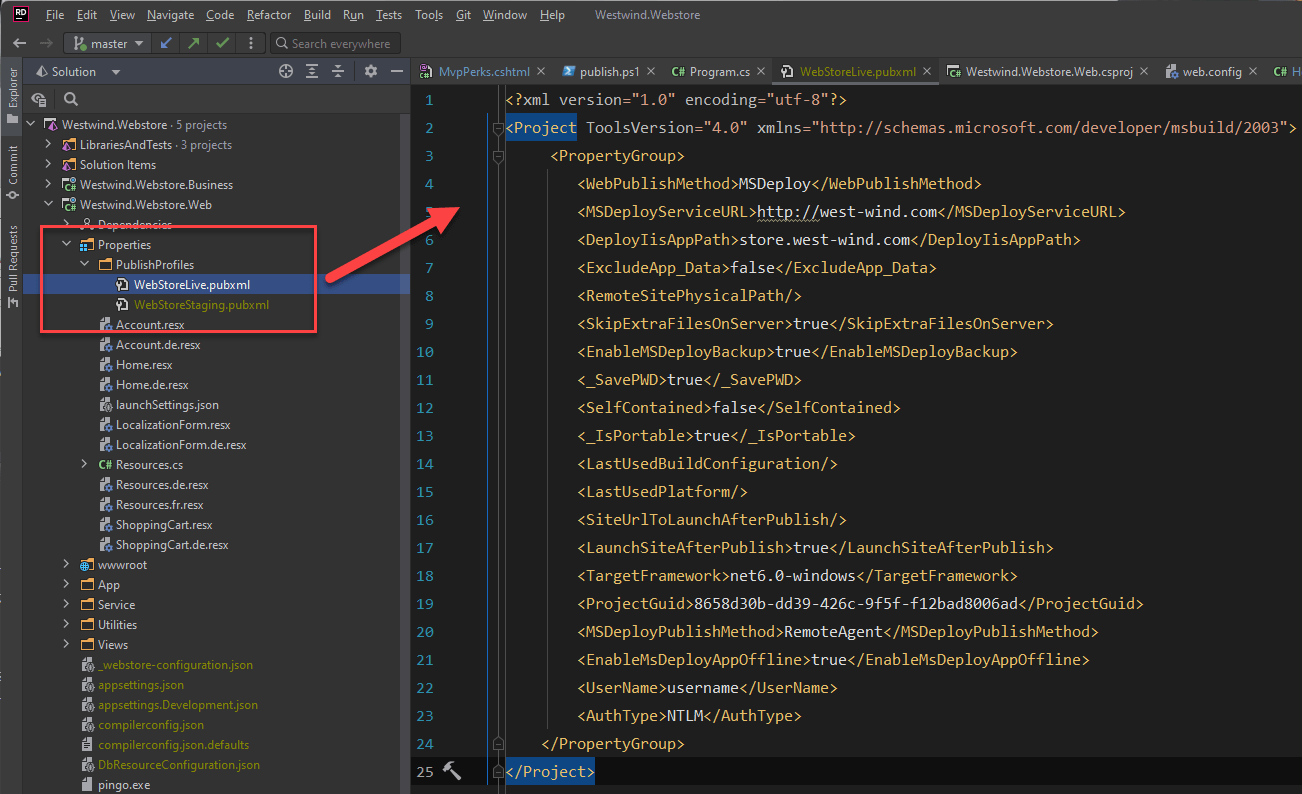
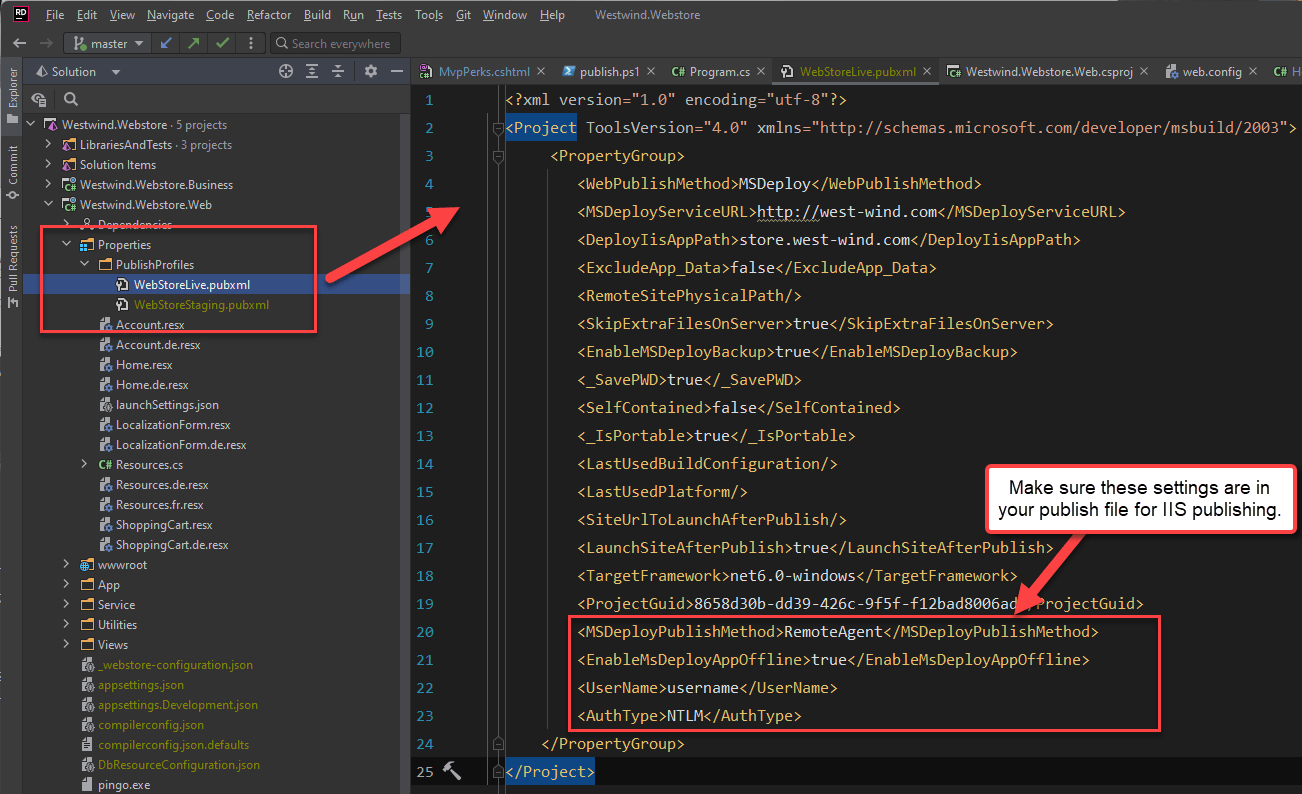
Update UseShadowcopydirectoryOnIisWithAspNetToAvoidWebdeployLockingIssues.md

Changed region(s): [[0.4301, 0.5743, 1.0, 0.7859], [0.4301, 0.9068, 0.8909, 0.937]]

diff --git a/2022-10/Use-ShadowCopyDirectory-on-IIS-with-ASP.NET-To-Avoid-WebDeploy-Locking-Issues/UseShadowcopydirectoryOnIisWithAspNetToAvoidWebdeployLockingIssues.md b/2022-10/Use-ShadowCopyDirectory-on-IIS-with-ASP.NET-To-Avoid-WebDeploy-Locking-Issues/UseShadowcopydirectoryOnIisWithAspNetToAvoidWebdeployLockingIssues.md
@@ -1,123 +1,277 @@
 ---
-title: Use ShadowCopyDirectory on IIS with ASP.NET To Avoid WebDeploy Locking Issues
-abstract: 
-keywords: 
-categories: 
+title: Avoid WebDeploy Locking Errors to IIS with Shadow Copy for ASP.NET Core Apps
+abstract: If you're self-hosting ASP.NET Core applications on IIS and using WebDeploy to publish to the server, you've very likely run into the dreaded locked file problem on the server. In this post I show you how you can work around locking problems with the base WebDeploy configuration and by using a new experimental feature in ASP.NET 6.0 to Shadow Copy deploy binaries. As a bonus this post also describes setting up and using Web Deploy in some detail.
+categories: ASP.NET, Deployment
+keywords: WebDeploy, Shadow Copy, Locking, IIS, Publish
 weblogName: West Wind Web Log
-postId: 
-postDate: 2022-10-09T11:11:36.1551532-10:00
-postStatus: publish
+postId: 3558288
 dontInferFeaturedImage: false
 dontStripH1Header: false
+postStatus: publish
+featuredImageUrl: https://weblog.west-wind.com/images/2022/Use-ShadowCopyDirectory-on-IIS-with-ASP.NET-To-Avoid-WebDeploy-Locking-Issues/DeployBoat.jpg
+permalink: https://weblog.west-wind.com/posts/2022/Nov/07/Avoid-WebDeploy-Locking-Errors-to-IIS-with-Shadow-Copy-for-ASPNET-Core-Apps
+postDate: 2022-11-07T11:11:36.1551532-10:00
 ---
 # Avoid WebDeploy Locking Errors to IIS with Shadow Copy for ASP.NET Core Apps
 
+![Rocky Deployment - boat sliding off launch ramp](DeployBoat.jpg)
+
 If you're self-hosting ASP.NET Core applications on IIS and using WebDeploy to publish to the server, you've very likely run into the dreaded locked file problem on the server. You start to publish to the server, and the publish fails half way through, with an File in Use error because files on the server are locked. 
 
-Regardless of whether you publish from within Visual Studio or you publish from the command line (via `dotnet publish`) you have probably run into this issue:
+Regardless of whether you publish from within Visual Studio or you publish from the command line (via `dotnet publish` or `MSDeploy`) you have probably run into this issue:
 
-![](PublishFail.png)
+![MSDeploy publish error on the Command Line](PublishFail.png)
 
-The error is the `ERROR_FILE_IN_USE` which indicates that one of the files - most likely one of the application assemblies is use. Sometimes it's possible to retry and succeed, but at other times this update never succeeds.
+The error is the dreaded `ERROR_FILE_IN_USE` which indicates that one of the files - most likely one of the application assemblies is use.
+
+This means when applications are shut down for updates from WebDeploy, sometimes it's possible to retry and succeed, but at other times this update never succeeds. This happens even, if the `AppOffLine.html` option is enabled in the profile, which is supposed to unload the app before it starts updating. Alas - it does not, at least not always.
+
+I'll break this post down into two major sections:
+
+* Part 1: Shadow Copying - What is it, what problem does it solve, and how do you use it
+* Part 2: Setting up WebDeploy for Publishing to IIS both on the client and server
+
+The latter is obviously out of order, but if you're new to IIS Publishing and WebDeploy or it's been a while, it might be good to get a quick start or refresher to get up to speed.
 
 ## Why are Files Locked Files in ASP.NET Core Applications?
-Unlike classic ASP.NET applications, by default ASP.NET Core applications are hosted **in place** when running in IIS, which means that the applications are run out of the location that they are installed. 
+Unlike classic ASP.NET applications, by default ASP.NET Core applications are hosted and execute **in place** when running in IIS or anywhere else. This means that the application **runs directly in the location that it is deployed** and loads all files out of that folder. 
 
-Contrast that to classic ASP.NET used shadow copying, where binary files of an application were by default copied to another temporary folder from which the application was then run. ASP.NET then ran a file watcher to determine if files in the binary folder had changed and if so would create a new shadow copy folder, copy the files and then start a new Application Pool from there. Old requests would run out on the old Application Pool, new requests would start up in the new one.
+On IIS, ASP.NET Core is hosted through the **ASP.NET Core Hosting Module (ANCM)** which is responsible for firing up the .NET Runtime - either in-process or out-of-process - and starting up your .NET core application. The module handles translating IIS's inbound data stream so ASP.NET Core can consume the data using the familiar ASP.NET Request/Response/Server model.
 
-ASP.NET Core by default doesn't do this sort of shadow copying, and instead runs binaries right out of the installation folder which is the 'Web' site install folder.
+WebDeploy is the tooling technology you can use to publish ASP.NET Core applications to a self-hosted instance of IIS. It copies files, is supposed to unload the running application (with mixed results), updates files and then is supposed to restart the application. 
 
-IIS has a special mechanism to try and unload a running application by copying a special file called  `AppOffline.html` into the root of a Web site, which is supposed to shut down the running application and instead serve the static `AppOffline.html` which can display a message to users that the site is temporarily down. Unfortunately this mechanism is not very reliable - while it can shut down applications in many cases, often it fails to do so if there are request still running in the background or the application has other background tasks. Even for simple applications, in my experience `AppOffline.html` on its own is not reliable to shut down an application at least not in the timely manner required in order for Web deploy to work.
+Although WebDeploy has a basic mechanism of unloading the running Application on IIS before copying files using `AppOffline.html`, often this simple IIS unload mechanism fails, and files continue to be locked. Usually this is due to the application still running pending requests or running some background operations that have not completed and released their background threads. End result: In some cases the IIS application does not unload.
 
-Web Deploy has an option to enable this functionality (not enabled by default which is a head scratcher) in the Publish Profile file:
+Sometimes you can wait a little bit and try again, but if the application is super busy or has long running requests or background services it might be increasingly difficult to update the application without explicitly shutting down the Web application on the server.
 
-```xml
- <EnableMsDeployAppOffline>true</EnableMsDeployAppOffline>
-```
+This experience sucks, especially if you need to get a fix out quickly. Even worse in some scenarios this can leave your application in a non-running state as some files were updated and others did not. Unfortunately, **this default behavior  is not uncommon.**
 
-But as discussed **this is not 100% reliable**.
+##AD##  
 
-## Shadow Copying in ASP.NET Core 6.0
-The good news is that as of ASP.NET Core 6.0 Shadow copying is back - for now as an experimental feature. However, after implementing this on my own IIS applications I can safely say that it works and I get now reliable deploys that don't get hung up on file locking errors.
+## Part 1: Shadow Copying
+Thankfully with .NET 6.0 and later an oldie but goodie feature called **Shadow Copying** is coming back. This feature originated in Classic ASP.NET where it was the default deploy scheme, but it is not the default behavior in ASP.NET Core which executes binaries in-place in the original deploy folder.
 
-This feature is enabled via `<handlerSettings>` in `web.config` and looks like this:
+Unlike in-place execution where binaries are run from where they are copied, Shadow Copying copies files into a separate temporary folder in addition to keeping them in the actual deploy folder. Files are published to the deploy folder first and a background operation in IIS then detects that the binaries have changed and copy the files to a secondary, temporary location. Once the copy operation is complete, the application is restarted with binary file loading re-directed to retrieve binaries from the temporary, shadow copy location.
+
+In .NET Core this, this is how this works:
+
+`Environment.CurrentDirectory` continues to reflect your original deploy folder - the application isn't actually running out of the shadow deploy folder. But if you check the currently executing assembly you'll find that it is executing out of a temporary folder.
+
+It looks like the IIS Hosting module is redirecting assembly loading to the temporary folder, so assemblies load from the there, rather than the original deploy folder, while actually running out of the original application folder where the application was installed.
+
+The following shows values for:
+
+* `Environment.CurrentDirectory`  - deploy folder 
+* `Assembly.GetExecutingAssembly().Location` - temporary shadow copy folder
+
+
+![Demonstrating running out of base folder but assemblies loading from Shadow Copy Folder](ApplicationAndShadowDirectoryFolder.png)
+
+### ASP.NET Core doesn't use Shadow Copying by Default
+ASP.NET Core doesn't use Shadow Copying by default and as a result - even with `AppOffLine.html` it's frequent to see publish operations on IIS fail.  
+
+The good news is that as of .NET 6.0 shadow copying is back - albeit as an experimental and optional feature that nevertheless works as advertised.
+
+The shadow copying behavior in ASP.NET Core is provided as part of the ASP.NET Core IIS Hosting Module (ANCM) that manages hosting .NET Core application inside of IIS. This module behavior handles monitoring the Web folder for changes and copying files to a new temporary location, then re-launching the ASP.NET Core application and referencing all binaries **from that temporary folder**.
+
+### Enabling Shadow Copy Folders in .NET 6.0+
+Shadow Copy deployment is a **new, experimental feature in .NET Core 6.0** using experimental keys you set in `web.config`. This feature is implemented at the .NET Core IIS Module level and configured via configuration settings in the `<aspNetCore>` key in `web.config`
+
+Although it's marked 'experimental', after implementing this on several of my own IIS applications, I can safely say that it works without any issues for me and I get now reliable deploys that don't get hung up on file locking errors. This is in contrast to the frequent and somewhat random `ERROR_FILE_IN_USE` errors I was getting previously. I'd say roughly 3 out of 10 installs would fail for me prior to using Shadow Copy. No lock failures any more.
+
+**So yay, Shadow Copy!!!**
+
+### Configuring Shadow Copy in web.config
+Because Shadow Copy is not an application feature, it's not set in your .NET Core project file. Rather it is implemented as part of the ASP.NET Core IIS Hosting Module and therefore configured in `web.config`.
 
 ```xml
 <aspNetCore processPath=".\Westwind.Webstore.Web.exe" 
             hostingModel="inprocess"
             stdoutLogEnabled="false" 
             stdoutLogFile=".\logs\stdout" >
+
  <handlerSettings>
    <handlerSetting name="experimentalEnableShadowCopy" value="true" />
-   <handlerSetting name="shadowCopyDirectory" value="../ShadowCopyDirectory/" />
+   <handlerSetting name="shadowCopyDirectory"       
+                   value="../ShadowCopyDirectory/" />
  </handlerSettings>
+ 
 </aspNetCore>
 ```
 
-This creates a shadow copy folder in this case in the parent folder of the site where several applications can share this common base folder:
+You enable the feature and provide a folder name. The folder name can be a relative path as in the example, or a fully qualified OS path.  You can point multiple applications at the same Shadow Copy folder, as the unique temporary folders are created underneath that folder with a unique ID.
 
-![](ShadowCopyFolder.png)
+Here's what the shadow copy folder looks like for the above setup:
 
-Each application and each 'change' in the application generates a new shadow copy folder. The ASP.NET Core handler figures out whether it needs to create a new shadow copy folder, can reuse an existing one and also cleans up no longer running shadow copy folders.
+![Shadow Copy folders exist in parallel to Deployment folder](ShadowCopyFolder.png)
 
-This works well and has eliminated any publish errors due to file locking from my end. This is a simple fix for an annoying problem and I'm very glad to see Shadow Copying again supported for publishing.
+Each application and each 'change' in the application generates a new shadow copy folder. The ASP.NET Core handler figures out whether it needs to create a new shadow copy folder, can reuse an existing one and also cleans up no longer running shadow copy folders. 
 
-Yay!
+All of this works very well and has eliminated any publish errors for me due to file locking. This is a simple fix for an annoying problem and I'm very glad to see Shadow Copying again supported for publishing.
 
-## Web Deploy Publishing 101: A quick review
-While we're here, let's review the full Web Deploy setup if you're publishing to IIS. The default settings that are set when a new publish profile is created unfortunately don't include some critical options so let's review.
+Again: **Yay!**
 
-The easiest way to create a new publish profile is to let Visual Studio (or another IDE like Rider) create a profile for you.
+### Potential Problems with Shadow Copying
+While Shadow Copying has fixed all of my issues, and I haven't run into any issues personally, it's important to point out that **there can potentially be some issues** that have to do with timing the file copy operation properly and the new location assemblies run out of.
 
-**In Visual Studio:**
-Right click on your Web project, then select **Publish**
+For me personally, switching from in-place, to shadow-copy was a zero change event, all I did is add the handler settings in `web.config` and got to enjoy no lockup publishing and the same application behavior as before.
 
+#### Restart before Copy is Complete
+But I do remember running into issues with partial updates with classic ASP.NET especially on large applications.
+It's feasible that if you have very large publish distributions that multiple shadow copies occur, potentially leaving the application **temporarily** in an unstable state. Once copying is complete, this always sorts itself out, but on rare occasions you may end up with an incomplete application briefly.
 
-![](WebPublishProfileVisualStudio.png)
+I've not seen that in my applications, mainly because the apps are not very large and self contained. The larger the distribution the more likely to run into a situation where Shadow Copy processing considers the app update complete, while more files are still published.
 
-You then choose **Web Deploy** as the publish type and fill in your Web site information:
+#### Relative Assembly Paths
+Another potential problem is that if some component relies on `Assembly.GetExecutingAssembly()` or `Assembly.GetEntryAssembly()` and makes assumptions based on that location, there could be problems due to the relative path changes. This can cause problems with files getting copied to a temporary location instead of into the application structure for example or it could be something internal like a dynamically loaded assembly not being found where it's expected to be.
 
-![](WebDeploySiteInfo.png)
+#### Make sure you Test First, Ask Questions Later
+If you plan on using Shadow Copy make sure you test your application publishing to make sure everything works as expected.
+  
+Don't take my word or my specific application scenarios for it - do your own Due Diligence and test your application to see if there are any of the rare side effects that might apply to you.
 
-You specify the URL of the site that is running 
+## Shadow Copy Summary
+If you've run into publish problems on IIS using plain Web Deploy publishing, you should definitely take a look at Shadow Copying files as it almost certainly will eliminate any locking issues in your applications. However, make sure that you test for any of the minor problems that can creep up due to the changed locations of the binary assemblies loaded from Shadow Copied file.
 
-### A Web Deploy Profile
-The interactive tool simply creates a **Publish Profile** file which by default is stored in your project at:
+##AD##
 
-* Properties/PublishProfiles
+## Part 2: Setting up and Running WebDeploy with .NET Core apps in IIS
+If you're new to publishing to IIS or it's been a while you probably could use a quick refresher on what you need in order to use Web Deploy both on the client and on the server.
 
-You can create multiple profiles to multiple servers, so you can easily set up profiles for `Production`, `Staging` etc. 
+### Make sure that the  WebDeploy is installed
+Although the .NET Core SDK supports publishing via WebDeploy, the feature is not automatically installed with the SDK. **You have to separately install WebDeploy first**.
 
-![](WebDeployProfileInIde.png)
+You can install Web Deploy from:
 
+* [WebDeploy from Microsoft Platform Installer](https://www.iis.net/downloads/microsoft/web-deploy)
+* From Chocolatey: `choco install WebDeploy`
 
+These installers will install both the Web Deploy client and also the server IIS addin, if IIS is installed locally. If IIS is not installed and you later install it you'll have to re-install WebDeploy at that time.
 
-
-
-
-## The Server: Web Deploy Installation
-In order to use WebDeploy to publish to the server, Web Deploy has to be installed on the server as it's not a default IIS component. Web Deploy is an IIS addon-component that works in conjunction with IIS, but it runs as an independent service separate from IIS. 
-
-There are a number of places you can get it from:
-
-* [Download from Microsoft Site](https://www.iis.net/downloads/microsoft/web-deploy)
-* [Install with Chocolatey](https://community.chocolatey.org/packages/webdeploy)
-* Install from the IIS Web Platform Installer (from within the IIS Admin Manager)
-
-Chocolatey is the easiest and quickest as it's a silent install:
-
-```ps
-choco install webdeploy
-```
-
-If all goes well, Web Deploy installs as a service and the service has to be actively running:
+#### A Word about the Web Deploy Agent Service Server Component
+The Web Deploy server component installs as Windows Service called **Web Deployment Agent Service** with a dependency on the Windows Http service which is used for communication.
 
 ![](WebDeployService.png)
 
-That should do the trick.
+You'll want to make sure the service is started and running - otherwise you won't be able to connect to it. 
 
 > #### @icon-warning Make sure the Service is running
-> If for some reason you can't connect to the Web Deploy server, make sure to check that this service is running.
+> If for some reason you can't connect to the Web Deploy server, make sure to double check that the **Web Deployment Agent Service** is actually running!
 >
-> I've noticed in some cases that starting with **Automatic** will fail to start the service properly when the machine starts up, so I recommend using **Automatic (Delayed Start)**. 
+> I've noticed in some cases that starting with default service startup setting of **Automatic** the server fails to start when the machine starts up. Instead using **Automatic (Delayed Start)** is more reliable for ensuring the WebDeploy server is started on machine restarts.
 
+### Create a Web Deploy Profile in Visual Studio
+In order to publish from the client you need to create one or more Publish Profiles that tell WebDeploy where and how to publish your Web application. Publish Profiles are XML files that are used by command line tools to execute, but Visual Studio and other IDEs have UI tools that help create these profiles more interactively.
+
+The easiest way to create a new publish profile from scratch is to let Visual Studio (or Rider) to create a profile for you from your .NET Web application. The following uses a .NET Core project, but it also works with most other Web project types including classic ASP.NET projects. Otherwise you can also just copy an existing `.pubxml` file and modify the configuration.
+
+**In Visual Studio:**
+
+Right click on your Web project, then select **Publish**
+
+![WebDeploy Publish Wizard in Visual Studio](WebPublishProfileVisualStudio.png)
+
+You then choose **Web Deploy** as the publish type and fill in your Web site information:
+
+![Site info display for Web Deploy in Visual Studio](WebDeploySiteInfo.png)
+
+* **Server**  
+You need to specify a domain name here that you want to publish to. You can use either:
+    
+    * A domain or IP Address on its own (ie. `www.domain.com`)
+    * An http url: `http://mydomain.com`
+    * **NOT an https url**: `https://mydomain.com`
+
+    Regardless of whether you use a domain or url the value is parsed into an internally used URL that communicated between Windows machines using your Windows credentials.  
+    *Example: `mydomain.com`*
+
+
+* **Site Name**  
+This is the I**IIS site name** to which you want to deploy. The site has to already exist and have a valid root folder. The Site name is the description you see for the site in the IIS Manager application for each site. You can also specify virtual directories using `/` to separate the site name and virtual.  
+*Example: `store.west-wind.com` or `west-wind.com/wconnect`*
+
+* **Destination Url**  
+This is an Url value that's used to open the site after publishing is complete and should just point at your Web Site. I noticed that this URL should be `http://` - even if it auto-redirects to `https://` or else the validation fails.
+
+* **Username and Password**  
+In order to publish you need to authenticate on the server using a Windows Administrative account. If this doesn't work also make sure the `<AuthType>` key in the `.pubxml` is set to `NTLM`.
+
+* **Validate Button**  
+You'll want to validate the settings by clicking this button. If all is well you'll see a little checkmark, if not you'll get an error icon that you can click for error info. 
+
+    * **Common Validation Errors**  
+    Common problems are user validation failing (credentials, non-admin account), WebDeploy service not running on the server, server not resolving or firewall is blocking requests. 
+
+#### A Web Deploy Profile
+The interactive tool simply creates a **Publish Profile** `.pubxml` file which by default is stored in your project at:
+
+* Properties/PublishProfiles
+
+> You can also create these profiles by hand and skip the Visual Studio or other tooling by simply copying and modifying an existing profile which tends to be much quicker. Once you've created the profile, if it lives in to the `Properties/PublishProfiles` folder it'll also be visible in Visual Studio and Rider as an available profile by its filename in the publish options.
+
+You can create multiple profiles to multiple servers, so you can easily set up profiles for `Production`, `Staging`, `Backup` etc. 
+
+![An example .pubxml WebDeploy Profile](WebDeployProfileInIde.png)
+
+In this publish file there are a few keys that are important that may or may not be in your automatically created profile (depending on your version of Visual Studio):
+
+* **EnableMsWebDeployAppOffline**  
+Ensures that the WebDeploy places an `AppOffline.html` file in the deploy folder before updating files. This file causes IIS to unload the currently running App Pool and keep it from restarting until the file is removed. This setting wasn't the default until very recently in Visual Studio (v17.2+)
+
+* **MsDeployPublishMethod**  
+Use `RemoteAgent` for this setting. I've had a number of issues with connections failing, and when they did this setting made it work. This setting should be the default for WebDeploy but explicitly setting it ensures it is always used.
+
+* **AuthType**  
+WebDeploy always uses Windows Authentication or `NTLM` but in some instances the default for this setting is not `NTLM` resulting in authentication failures. Explicitly setting to `NTLM` ensures that the right authentication is used for Web Deploy.
+
+##AD##
+
+#### Publishing from Visual Studio
+Once you've got one or more publish profiles set up, you can then use them to publish to the server easily using... wait for it... right click deploy.
+
+In Visual Studio you can publish from the project's context menu:
+
+![Publish from within Visual Studio using the Publish context menu](VisualStudioPushButtonDeploy.png)
+
+From there you can the publish:
+
+![Publish dialog in Visual Studio with options to edit](PublishDialog.png)
+
+Done and Done.
+
+### Publishing with dotnet publish
+For those that hate **Push Button Deploy** there's also **Command Line Deploy** which is really still Push Button deploy but with more keystrokes - but hey at least you can look cool and pretend it's more sophisticated :smile:.
+
+The .NET SDK has support for publishing Web applications including publishing to IIS via WebDeploy using the `dotnet publish` command. The process is very simple and boils down to a single command:
+
+```ps
+dotnet publish /p:PublishProfile=Properties/PublishProfiles/WebStoreLive.pubxml `
+               /p:Username=$uid `
+               /p:Password=$pswd -c Release
+```
+
+You can pass any MS Deploy parameters here via the `/p:` flags, but 
+
+
+> #### @icon-warning Web Deploy is a Separate Install from the .NET SDK
+> Although you can publish to WebDeploy with `dotnet publish`, WebDeploy **is not installed with the .NET SDK**, so you still need to install the Web Deploy client explicitly as discussed earlier. 
+> 
+> Visual Studio on the other does install WebDeploy since the publish tooling is integrated. Rider downloads it as a plugin on the fly with similar on demand behavior.
+
+
+Using .NET Publish in this way allows you to automate the build process via simple scripted PowerShell or Command scripts or you can integrate this process into a DevOps build pipeline, or combine commands to provide a sequence of events. For example, on some of my bigger applications I push to a separate Git publish branch with a Tag before publishing to have an full current state of the published application that I can roll back to if something goes wrong.
+
+
+## Summary
+WebDeploy is old technology and it shows. All sorts of quirks from the funky options to choose domains, http:// only URLs, to funky file locking. But, once you have a connection, it actually works surprisingly well with its options to incrementally update or do a full nuke and start over installation.
+
+WebDeploy and 'push button' deployment is frowned upon by many, but if you're not on a dedicated server platform like Azure or AWS, WebDeploy continues to be a very useful tool. And with only a little bit automation via `dotnet publish` (or directly using `MSDeploy`) you can create a robust publish process without a full dev pipeline while still having reliable fallbacks and options to do A/B publishing and multiple publish environments. Or - just do the push button deploy, as I still often do for many of my mostly static content Web sites where I literally push button deploy from Visual Studio or from CLI from VS Code with a single batch file without any fanfare. It works and does what it should... so use it for what it's good for!
+
+<div style="margin-top: 30px;font-size: 0.8em;
+            border-top: 1px solid #eee;padding-top: 8px;">
+    <img src="https://markdownmonster.west-wind.com/favicon.png"
+         style="height: 20px;float: left; margin-right: 10px;"/>
+    this post created and published with the 
+    <a href="https://markdownmonster.west-wind.com" 
+       target="top">Markdown Monster Editor</a> 
+</div>

diff --git a/2022-10/Fix-Chromium-Browsers-automatically-re-routing-http-to-https/FixChromiumBrowsersAutomaticallyReRoutingHttpToHttps.md b/2022-10/Fix-Chromium-Browsers-automatically-re-routing-http-to-https/FixChromiumBrowsersAutomaticallyReRoutingHttpToHttps.md
@@ -53,7 +53,7 @@ The following is accessing a site on `localhost` **that is not set up for HSTS**
 
 ![](HttpsRedirectFromNonHttpsSite.png)
 
-You can see that even so the browser immediately redirects to `https://` not even hitting the server - it looks like it's creating a fake redirect on the client as the server is not automatically redirecting. If you go to this same site when no HSTS caching is active from the ASP.NET Core site previously, it loads fine in `http://`. But now with HSTS applied to the ASP.NET Core site, the root site that doesn't use HSTS doesn't work.
+You can see that even though the browser immediately redirects to `https://` not even hitting the server - it looks like it's creating a fake redirect on the client as the server is not automatically redirecting. If you go to this same site when no HSTS caching is active from the ASP.NET Core site previously, it loads fine in `http://`. But now with HSTS applied to the ASP.NET Core site, the root site that doesn't use HSTS doesn't work.
 
 ##AD##
 
@@ -105,14 +105,16 @@ There are a few approaches you can take to this issue on in addition to the fixe
 ### Use Https for all Things
 The obvious solution is to use `https://` all the things, even on localhost. This is getting a bit easier these days as more and more development tools provide easier ways to either use private certificates, or run servers that automatically install local dev certificates for you on installation (like .NET does these days) or offer built in dev certificate management. 
 
-This by far the best solution, but if you're working on legacy applications that might be using an old server like full IIS or IIS Express without a pre-installed SSL certificate this is easier said than done. Creating of local self-signed certificates is still a pain in the ass especially on Windows.
+If you're using .NET for development, there's no reason to not use `https://` for development since it provides integrated development certificates and the default project templates even have options to set up the local site for `https` (which enables HSTS ironically which isn't exactly the same as 'enabling https` only).
 
-Also most client side frameworks (VueJs and Angular is what I use) certainly don't default to https and don't offer native tools, although there are dev pipeline plug-ins that do provide integration. The problem isn't that there isn't a solution, but that the problem is not real obvious to even reach for that solution eventually. It seems that eventually we need to get to a point where every tool automatically uses Https for its local development setup/dev servers. 
+This is not as common yet for client side development tools like Vue or Angular, but there are platform specific packages for most environments. For example, for Vue you can use Vite mkCert Plugin which adds a local dev certificate when you run the app. I suspect more integrated solutions for this are coming in the future so `https://` works right out of the box for local servers on any framework.
 
-It pays off to spend a little time to see if you can get Https to work with your local solution - it just might save some of these unpredictable further down the line.
+Using `https://` is by far the best solution, but if you're working on legacy applications that might be using an old server like full IIS or IIS Express without a pre-installed SSL certificate this is easier said than done. Creating of local self-signed certificates is still a pain in the ass especially on Windows and for those scenarios the steps above should be helpful to - at least temporarily - clear out the cached HSTS settings.
+
+It pays off to spend a little time to see if you can get `https` to work with your local Web Server - it just might save some of these unpredictable behaviors further down the line.
 
 ### Disable HSTS for Local Dev
-If HSTS is the problem one thing you can do is try to not send the HSTS headers when doing local development. Either set an explicit flag or differentiate between explicit
+If HSTS is the problem, one thing you can do is try to not send the HSTS headers when doing local development. Either set an explicit flag or differentiate between explicit
 
 If you are using a tool that supports HSTS, it might be a good idea to disable it on the local machine so that it **doesn't pollute other applications on localhost**. 
 
@@ -137,13 +139,17 @@ if (wsApp.Configuration.System.UseHsts)
 ```
 
 ### `thisisunsafe` Security ByPass Hack
-This hack is a weird one: If you get a security dialog that you cannot bypass like the one above for `localhost` and `https://` access with a certificate error, you can type `thisisunsafe` anywhere in the active browser window's Viewport. Yes - anywhere as long as the active browser window has focus. Then just type - invisibly - `thisisunsafe` into the browser and refresh the page.
+This is an aside that I found useful while I was tracking down this problem before I figured out that the HSTS tracking was an issue.
 
-The page should now come up and display your content. You'll still see the broken security icon in the address bar, but the page loads and works otherwise. This has the same effect as clicking on that button that says *I accept the risks*.
+There's a hack that allows you to bypass various security issues including using an invalid certificate. This hack is a weird one: If you get a security dialog that you cannot bypass like the one above for `localhost` and `https://` access with a certificate error, you can type `thisisunsafe` anywhere in the active browser window's Viewport. Yes - anywhere as long as the active browser window has focus. Then just type - invisibly - `thisisunsafe` into the browser and refresh the page.
+
+The page should now come up and display your content. You'll still see the broken security icon in the address bar, but the page loads and works otherwise. This has the same effect as clicking on that button that says *I accept the risks*. 
+
+
 
 Once you've done this, the security setting is cached for some time so repeated restarts of the browser continue to bring up the page without the blocking insecure warning page.
 
-This won't help you if you have no `https://` binding at all on the server because the server will just not allow the connection on port 443, but you can apply even a non-verified certificate and use this feature to get past it.
+> This hack won't help you if you have no `https://` binding at all on the server because the server won't be listening on the https port. It will however work if the server **is** responding on that port but without or with a non-validated certificate.
 
 It's not a good idea to use this 'out' as there's obviously a security issue. Better to fix the problem at the root and hopefully the HSTS fix above might provide the clean if temporary fix. If however you just don't have a workaround this `thisisunsafe` hack is one way to get on with life.
 
